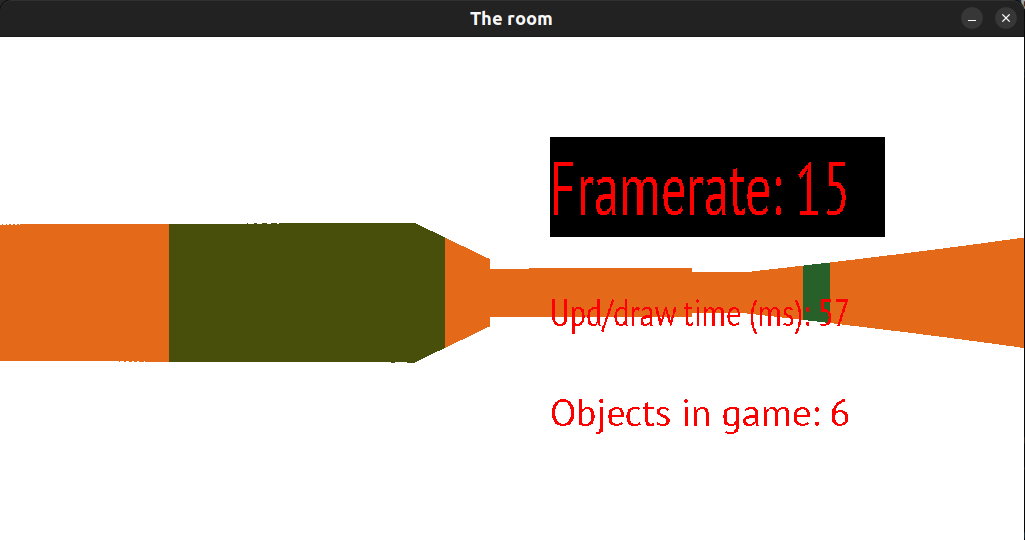
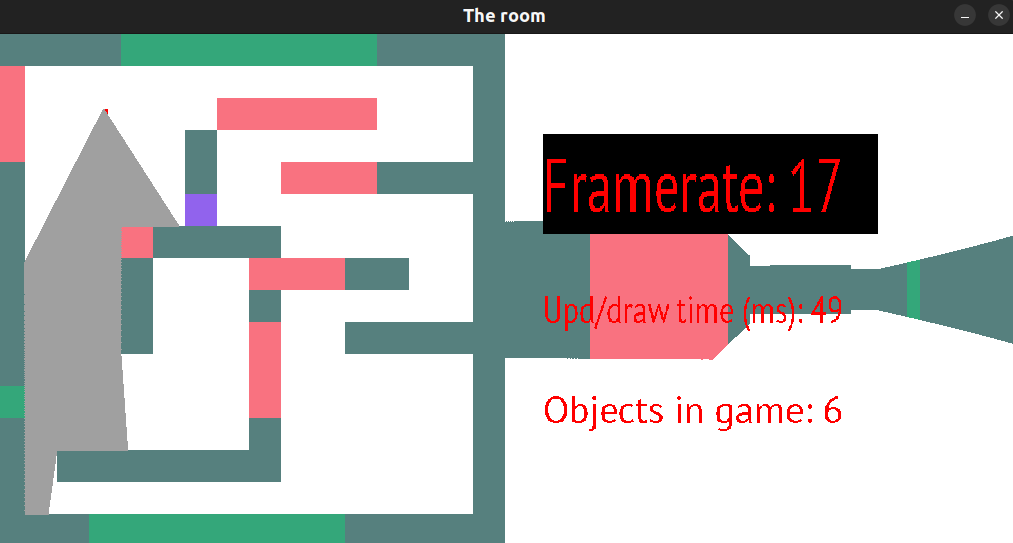
Added 2d map via cli param

diff --git a/src/Map.php b/src/Map.php
@@ -43,7 +43,7 @@ class Map extends GameObject
     private int $grayColor = 0;
     private int $loops = 0;
 
-    public function __construct(Player $player, int $width, int $height, bool $showMap = false)
+    public function __construct(Player $player, int $width, int $height, bool $showMap = true)
     {
         $this->player = $player;
         $this->winWidth = $width;
@@ -89,13 +89,12 @@ class Map extends GameObject
 
         $this->loops = 0;
 
-        $raysCount = $this->winWidth;
-
         $loopTime = microtime(true);
-        for ($i = 0; $i < (int)($raysCount); $i++) {
+        $raysCount = $this->getRaysCount();
+        for ($i = 0; $i < (int)$raysCount; $i++) {
             $angle = $this->player->getDirectionAngel()
                 - ($this->player->getFieldOfView() / 2)
-                + ($this->player->getFieldOfView() * $i / (float)($raysCount));
+                + ($this->player->getFieldOfView() * $i / $raysCount);
 
             $this->drawObjectsInAngleRange($angle, $i);
         }
@@ -105,6 +104,16 @@ class Map extends GameObject
         echo "LOOOPS TIME: " . round(($endTime - $loopTime) * 1000) . "\n";
         echo "DA: " . $this->player->getDirectionAngel() . "\n";
     }
+
+    private function getRaysCount(): float
+    {
+        if ($this->showMap) {
+            return $this->winWidth / 2;
+        }
+
+        return (float) $this->winWidth;
+    }
+
 
     private function clear(): void
     {
@@ -204,12 +213,21 @@ class Map extends GameObject
         $this->drawRectangle(
             $this->winWidth,
             $this->winHeight,
-            (int)($i), // position of vertical column, was (int)($rayCount + $i) - when map added
+            (int)($this->calcColumnXOffset() + $i), // position of vertical column, was (int)($rayCount + $i) - when map added
             $rectY,
             1,
             $columnHeight,
             $color
         );
+    }
+
+    private function calcColumnXOffset(): int
+    {
+        if ($this->showMap) {
+            return $this->getRaysCount();
+        }
+
+        return 0;
     }
 
     private function drawRectangle($width, $height, $rectX, $rectY, $rectW, $rectH, $color)

diff --git a/src/Game.php b/src/Game.php
@@ -13,7 +13,7 @@ class Game implements GameInterface
         $player = new Player();
 
         $gameObjects->add($player);
-        $gameObjects->add(new Map($player, 1024, 512));
+        $gameObjects->add(new Map($player, 1024, 512, isset(getopt('', ['withMap'])['withMap'])));
     }
 
     public function update(?Event $event = null): void

diff --git a/Readme.md b/Readme.md
@@ -4,6 +4,8 @@ Demo of semi-3d abilities of PsyXEngine.
 
 [<img src="./resources/screen.png" width="256" height="128" />](./resources/screen.png)
 
-Run with JIT to see 15 framerate, otherwise it will be much more slower: 
+Run with JIT to see 15 framerate, otherwise it will be slower (with xdebug enabled extremely slow): 
 
-`php -dopcache.enable_cli=1 -dopcache.jit=on -dopcache.jit_buffer_size=100M   src/main.php`
+`php -dopcache.enable_cli=1 -dopcache.jit=on -dopcache.jit_buffer_size=100M   src/main.php --withMap`
+
+Remove `--withMap` if you do not need map displayed.
